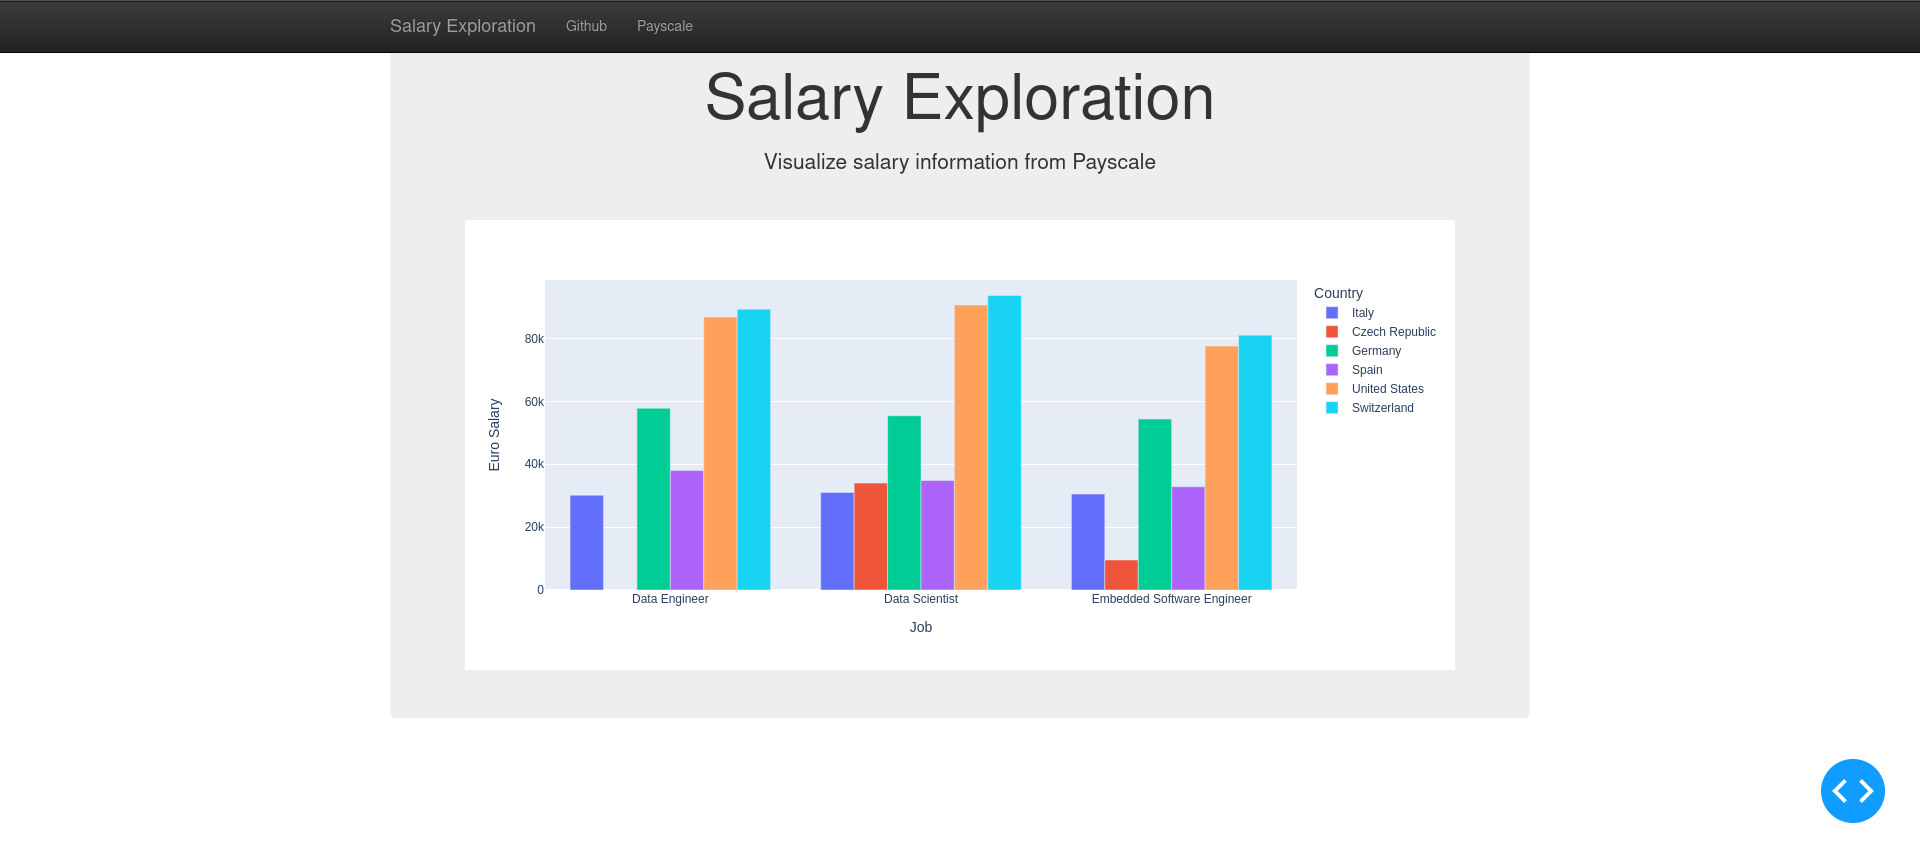
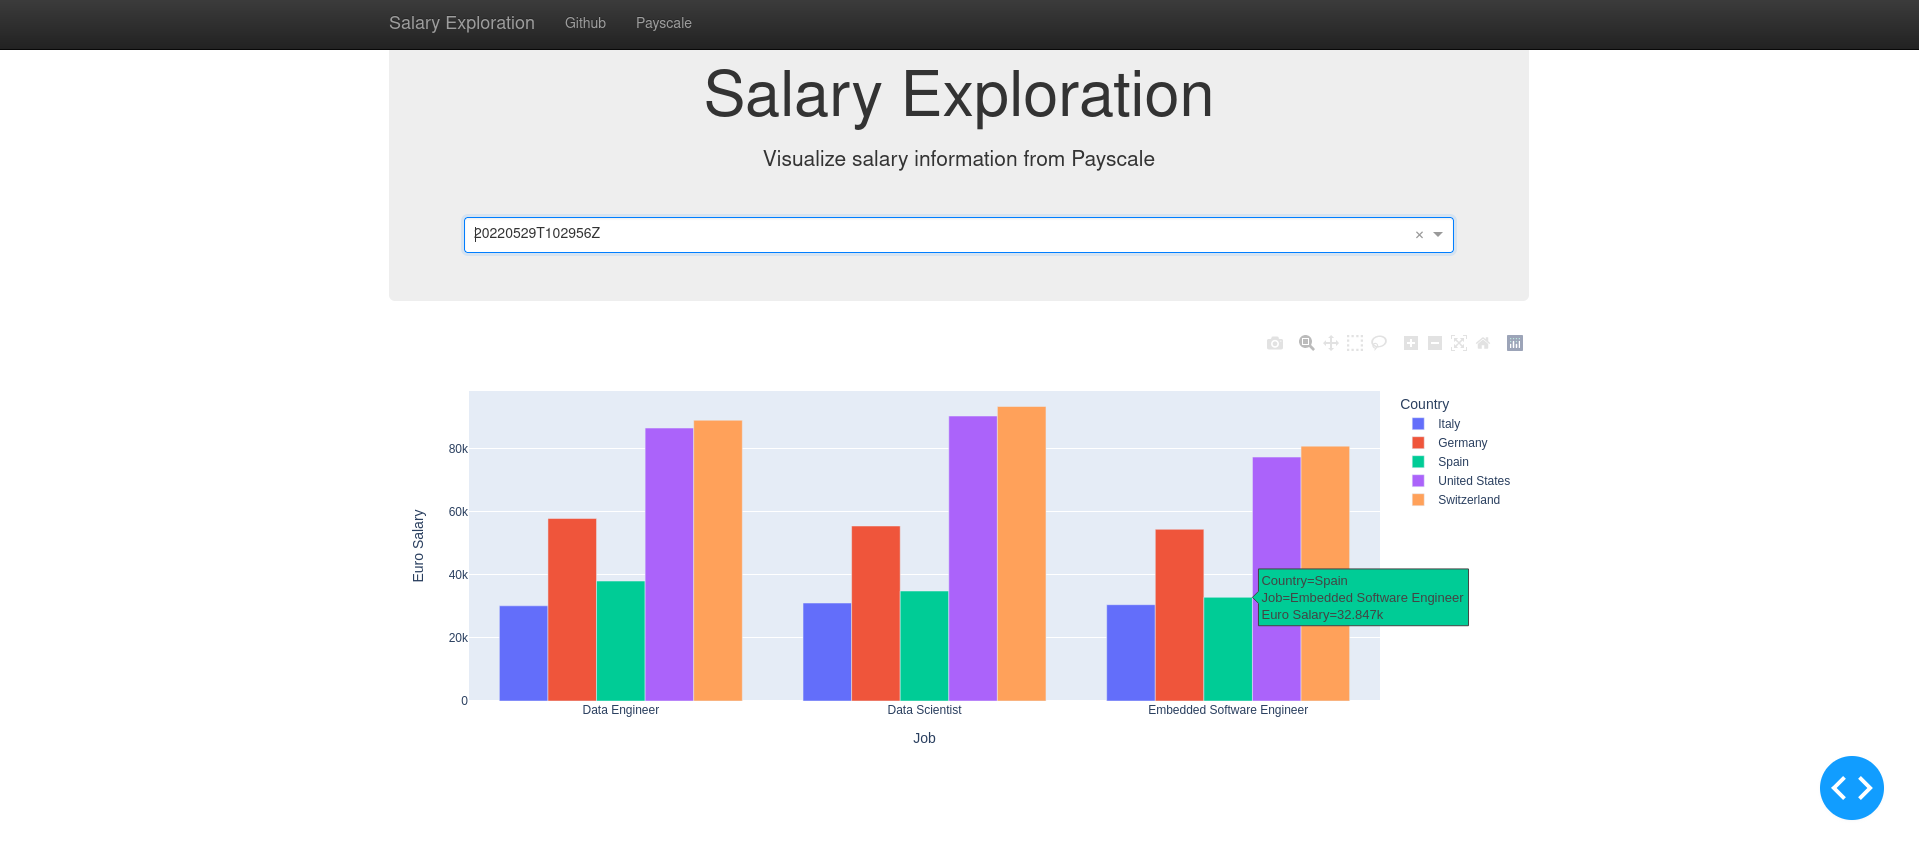
Update

diff --git a/salary_exploration.py b/salary_exploration.py
@@ -61,6 +61,7 @@ def get_last_salary_exploration():
         date_string: last exploration date_string in format YYYYMMMDDTHHMMSSZ
     '''
 
+    print('Get last salary exploration')
     latest_dir = ''
     all_dir = []
 
@@ -79,29 +80,58 @@ def get_last_salary_exploration():
     return latest_dir
 
 
-def get_country_job_salary_transformed():
+def get_all_salary_exploration():
+    ''' 
+    Get date string of all salary exploration
+    
+    Parameters:
+        None
+
+    Returns:
+        date_strings: all exploration date_string
+    '''
+
+    print('Get all salary exploration')
+    all_dir = []
+
+    for dir in os.listdir(DATA_FOLDER):
+        if os.path.isdir(DATA_FOLDER + '/' + dir):
+            all_dir.append(dir)
+        else:
+            pass
+
+    return all_dir
+
+    
+def get_country_job_salary_transformed(date_string):
     ''' 
     Get country job salary transformed data
     
     Parameters:
-        None
+        date_string: exploration date_string in format YYYYMMMDDTHHMMSSZ
+
     Returns:
         df: country job salary transformed data
     '''
 
-    last_date_string = get_last_salary_exploration()
+    print('Get country job salary transformed')
 
-    if os.path.isfile(DATA_FOLDER + '/' + last_date_string +  '/' + COUNTRY_JOB_SALARY_TRANSFORMED_FILENAME) is False:
-
-        _do_salary_exploration()
-
-        last_date_string = get_last_salary_exploration()
-
-        transform_data.transform_salary(DATA_FOLDER + '/' + last_date_string +  '/' + COUNTRY_JOB_SALARY_FILENAME, DATA_FOLDER + '/' + last_date_string +  '/' + COUNTRY_JOB_SALARY_TRANSFORMED_FILENAME)
+    if date_string is None:
+        date_string = get_last_salary_exploration()
     else:
         pass
 
-    df = pd.read_csv(DATA_FOLDER + '/' + last_date_string +  '/' + COUNTRY_JOB_SALARY_TRANSFORMED_FILENAME)
+    if os.path.isfile(DATA_FOLDER + '/' + date_string +  '/' + COUNTRY_JOB_SALARY_TRANSFORMED_FILENAME) is False:
+
+        _do_salary_exploration()
+
+        date_string = get_last_salary_exploration()
+
+        transform_data.transform_salary(DATA_FOLDER + '/' + date_string +  '/' + COUNTRY_JOB_SALARY_FILENAME, DATA_FOLDER + '/' + date_string +  '/' + COUNTRY_JOB_SALARY_TRANSFORMED_FILENAME)
+    else:
+        pass
+
+    df = pd.read_csv(DATA_FOLDER + '/' + date_string +  '/' + COUNTRY_JOB_SALARY_TRANSFORMED_FILENAME)
 
     return df
 
@@ -116,6 +146,7 @@ def _do_salary_exploration(date_string = datetime.datetime.now().strftime(DATETI
         None
     '''
 
+    print('Do salary exploration')
     _create_folders(date_string)
 
     if os.path.isfile(DATA_FOLDER + '/' + date_string +  '/' + COUNTRY_JOB_SALARY_FILENAME) is False:

diff --git a/dash_salary_exploration.py b/dash_salary_exploration.py
@@ -43,9 +43,7 @@ def _create_app():
 
     app = dash.Dash(__name__, external_stylesheets = EXTERNAL_STYLESHEETS)
 
-    df = salary_exploration.get_country_job_salary_transformed()
-
-    fig = px.bar(df, x = 'Job', y = 'Euro Salary', color = 'Country', barmode = 'group')
+    all_date_strings = salary_exploration.get_all_salary_exploration()
 
     app.layout = dash.html.Div(
         [
@@ -74,14 +72,27 @@ def _create_app():
                             dash.html.H1('Salary Exploration', className='text-center')
                             , dash.html.P('Visualize salary information from Payscale', className='text-center')
                             , dash.html.Hr()
-                            , dash.dcc.Graph(
-                                id = 'salary-country-graph',
-                                figure = fig
-                            )
+                            , dash.dcc.Dropdown(all_date_strings, all_date_strings[-1], id = 'dropdown')
+                            , dash.html.Div(id = 'dd-output-container')
                         ] , className = 'container')
                 ], className = 'jumbotron')
             , dash.html.Div(id = 'results')
         ], className = 'container')
+
+    @app.callback(dash.Output('results', 'children'), dash.Input('dropdown', 'value'))
+    def update_output(value):
+        results = []
+
+        df = salary_exploration.get_country_job_salary_transformed(value)
+
+        fig = px.bar(df, x = 'Job', y = 'Euro Salary', color = 'Country', barmode = 'group')
+
+        results.append(dash.html.Div(dash.dcc.Graph(
+                        id = 'salary-country-graph',
+                        figure = fig
+                    )))
+
+        return results
 
     return app
 

diff --git a/transform_data.py b/transform_data.py
@@ -23,8 +23,8 @@ def convert_local_currency_to_euro(local_currency):
     Returns:
         None
     '''
-    print('Convert local currency {} to euro'. format(local_currency))
 
+    print('Convert local currency {} to euro'. format(local_currency))
     euro_amount = None
 
     if '€' in local_currency:
@@ -101,6 +101,7 @@ def transform_salary(input_filename, output_filename):
     Returns:
         None
     '''
+    
     print('Create a CSV file with transformed salary')
     if os.path.isfile(input_filename) is False:
         print('Error: file {} not found')
@@ -129,7 +130,7 @@ def transform_salary(input_filename, output_filename):
 
 if __name__ == '__main__':
     parser = argparse.ArgumentParser(description=  'Transform data')
-    parser.add_argument('--input_file', default =  'data/20220530T103056Z/country_job_salary.csv', help = 'Date in format YYYYMMMDDTHHMMSSZ')
+    parser.add_argument('--input_file', default =  'data/20220529T102956Z/country_job_salary.csv', help = 'Date in format YYYYMMMDDTHHMMSSZ')
 
     args = parser.parse_args()
     # print(args)

diff --git a/extract_data.py b/extract_data.py
@@ -23,6 +23,7 @@ def _get_country_code(country):
     Returns:
         country_code: Code of the searched country
     '''
+
     print('Get country code')
     country_code_countries = {}
 
@@ -59,6 +60,7 @@ def _get_country_code_countries():
     Returns:
         country_code_countries: dict with country codes and countries
     '''
+
     print('Get country code countries')
     country_code_countries = {}
     url = 'https://www.payscale.com/research/Country'
@@ -109,6 +111,7 @@ def get_salary(country, job):
     Returns:
         salary: salary
     '''
+    
     print('Get salary')
     salary = None
     base_url = 'https://www.payscale.com/research/_COUNTRY_CODE_/Job=_JOB_NAME_/Salary'
